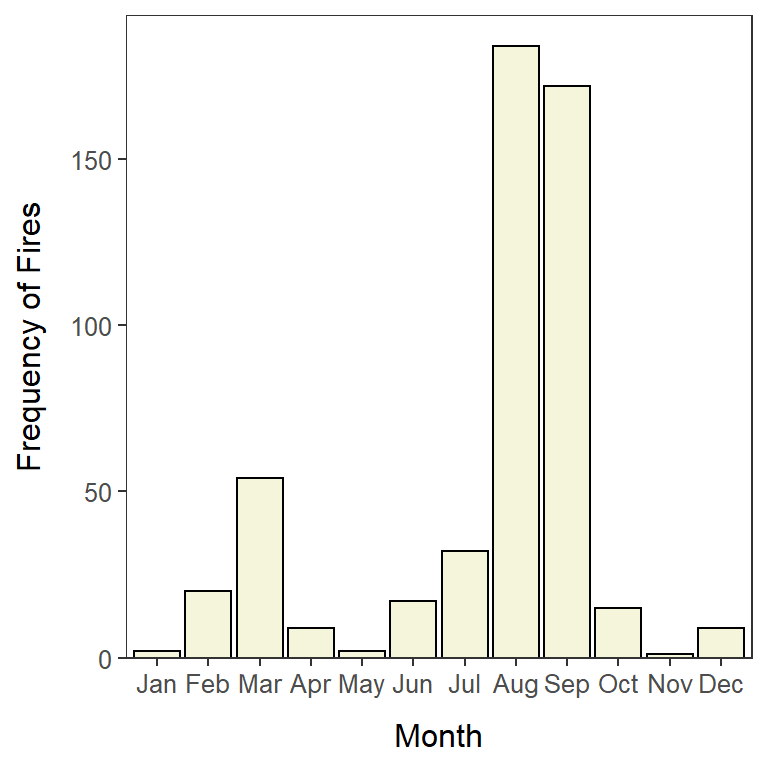
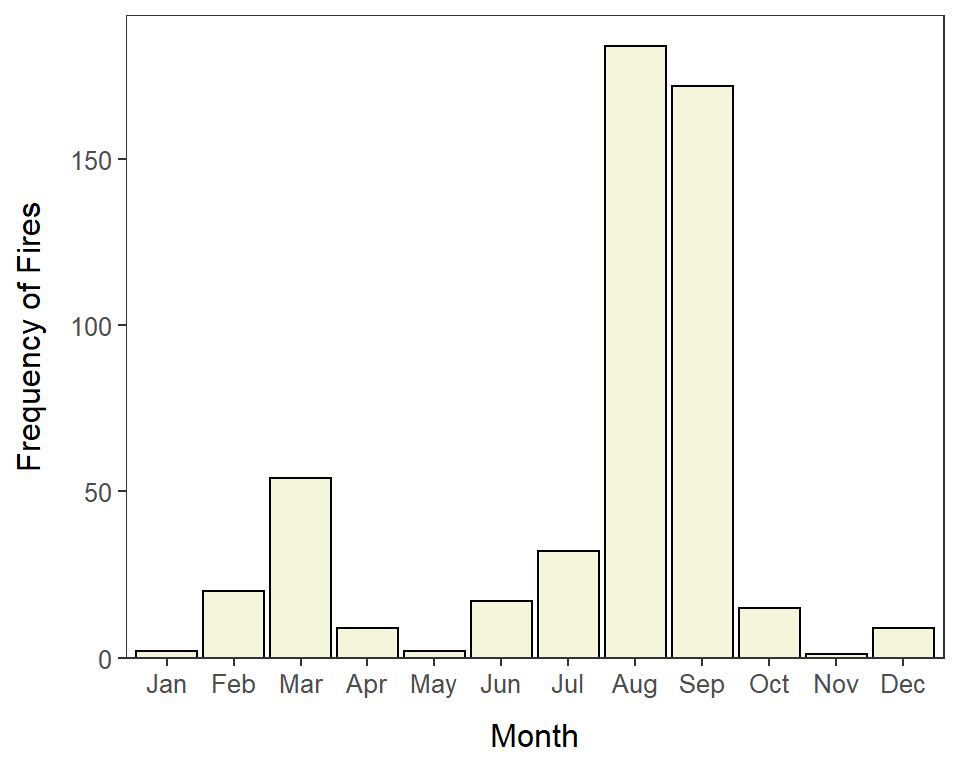
again

diff --git a/modules/CE/UnivEDA_CE1.html b/modules/CE/UnivEDA_CE1.html
@@ -28,7 +28,7 @@ css: "/css/modules.css"
 <div id="dungeness-crabs" class="section level2">
 <h2>Dungeness Crabs</h2>
 <p><img src="zimgs/Dungeness.jpg" alt="Dungeness Crab" class="img-right"></p>
-<p>Scientists were concered about the overexploitation of <a href="https://en.wikipedia.org/wiki/Dungeness_crab">Dungeness Crabs (<em>Cancer magister</em>)</a> in some California waters. To better manage this species they examined the post-molt carapace length from a large sample of crabs. Their results are displayed in Figure 2 and Table 2. Perform a thorough EDA with these results.</p>
+<p>Scientists were concerned about the overexploitation of <a href="https://en.wikipedia.org/wiki/Dungeness_crab">Dungeness Crabs (<em>Cancer magister</em>)</a> in some California waters. To better manage this species they examined the post-molt carapace length from a large sample of crabs. Their results are displayed in Figure 2 and Table 2. Perform a thorough EDA with these results.</p>
 <p><img src="UnivEDA_CE1_files/figure-html/CrabsHist-1.png" width="384" /></p>
 <p>Figure 2: Histogram for post-smolt carapace length (mm) of Dungeness crab collected in California.</p>
 <p>Table 2: Summary statistics for post-smolt carapace length (mm) of Dungeness crab collected in California.</p>
@@ -39,16 +39,15 @@ css: "/css/modules.css"
 <div id="forest-fires" class="section level2">
 <h2>Forest Fires</h2>
 <p><img src="zimgs/wildfire.jpg" alt="Wildfire" class="img-right"> <a href="http://www3.dsi.uminho.pt/pcortez/fires.pdf">Cortex and Morais (2007)</a> describe attributes of forest fires in Montesinho Natural Park in Portugal. The number of forest fires by month from 2000-2003 are displayed in Figure 3</p>
-<p><img src="UnivEDA_CE1_files/figure-html/ffBar-1.png" width="384" /></p>
-<p>Figure 3: Bar chart of frequency of forest fires in Montesinho Natural Part from 2000-2003.</p>
+<p><img src="UnivEDA_CE1_files/figure-html/ffBar-1.png" width="480" /></p>
+<p>Figure 3: Bar chart of frequency of forest fires in Montesinho Natural Park from 2000-2003.</p>
 <hr />
 </div>
 <div id="fate-of-plastics" class="section level2">
 <h2>Fate of Plastics</h2>
-<p><img src="zimgs/plastic_bales.jpg" alt="Plastic Bales" class="img-right"> <a href="http://advances.sciencemag.org/content/3/7/e1700782.full">Geyer et al. (2017)</a> estimated the fate of all plastic waste produced worldwide (their data <a href="https://ourworldindata.org/grapher/global-plastic-fate">is available here</a>). Their results for two years are displayed in Figure 4. Use these results to perform a univariate EDA for the fate of plastic waste in 2015. Also describe how the fate of plastic waste has changed from 1995 to 2015.</p>
+<p><img src="zimgs/plastic_bales.jpeg" alt="Plastic Bales" class="img-right"> <a href="http://advances.sciencemag.org/content/3/7/e1700782.full">Geyer et al. (2017)</a> estimated the fate of all plastic waste produced worldwide (their data <a href="https://ourworldindata.org/grapher/global-plastic-fate">is available here</a>). Their results for two years are displayed in Figure 4. Use these results to perform a univariate EDA for the fate of plastic waste in 2015. Also describe how the fate of plastic waste has changed from 1995 to 2015.</p>
 <p><img src="UnivEDA_CE1_files/figure-html/plasticBar-1.png" width="576" /></p>
-<p>Figure 5:</p>
-<p><a href="blob:https://ourworldindata.org/5464671c-bcee-46eb-adf5-1d8cdaa883d6" class="uri">blob:https://ourworldindata.org/5464671c-bcee-46eb-adf5-1d8cdaa883d6</a></p>
+<p>Figure 4: Bar chart of the percentage of worldwide plastic waste by fate in 1995 and 2015.</p>
 <p> </p>
 <hr />
 </div>

diff --git a/modules/UnivEDA.md b/modules/UnivEDA.md
@@ -30,7 +30,7 @@ It is important to understand the distribution of individuals for a single varia
 
 ## Preparation for Class
 
-Use the materials below to answer the questions on [this preparation guide](UnivEDA_Prep).
+Use the materials below to answer the questions on [this preparation guide](Prep/UnivEDA).
 
 * [![PDF](../img/pdf.png) Reading](../book/UnivEDA.pdf)
 * [![Vimeo](../img/dhovid.png) Interpreting a Univariate EDA (Quantitative)](https://vimeo.com/user45324800/ueda-quantsum){:target="_blank"} [11 mins] ... [corresponding slides](PPT/UEDAQuant_PPT.pptx)
